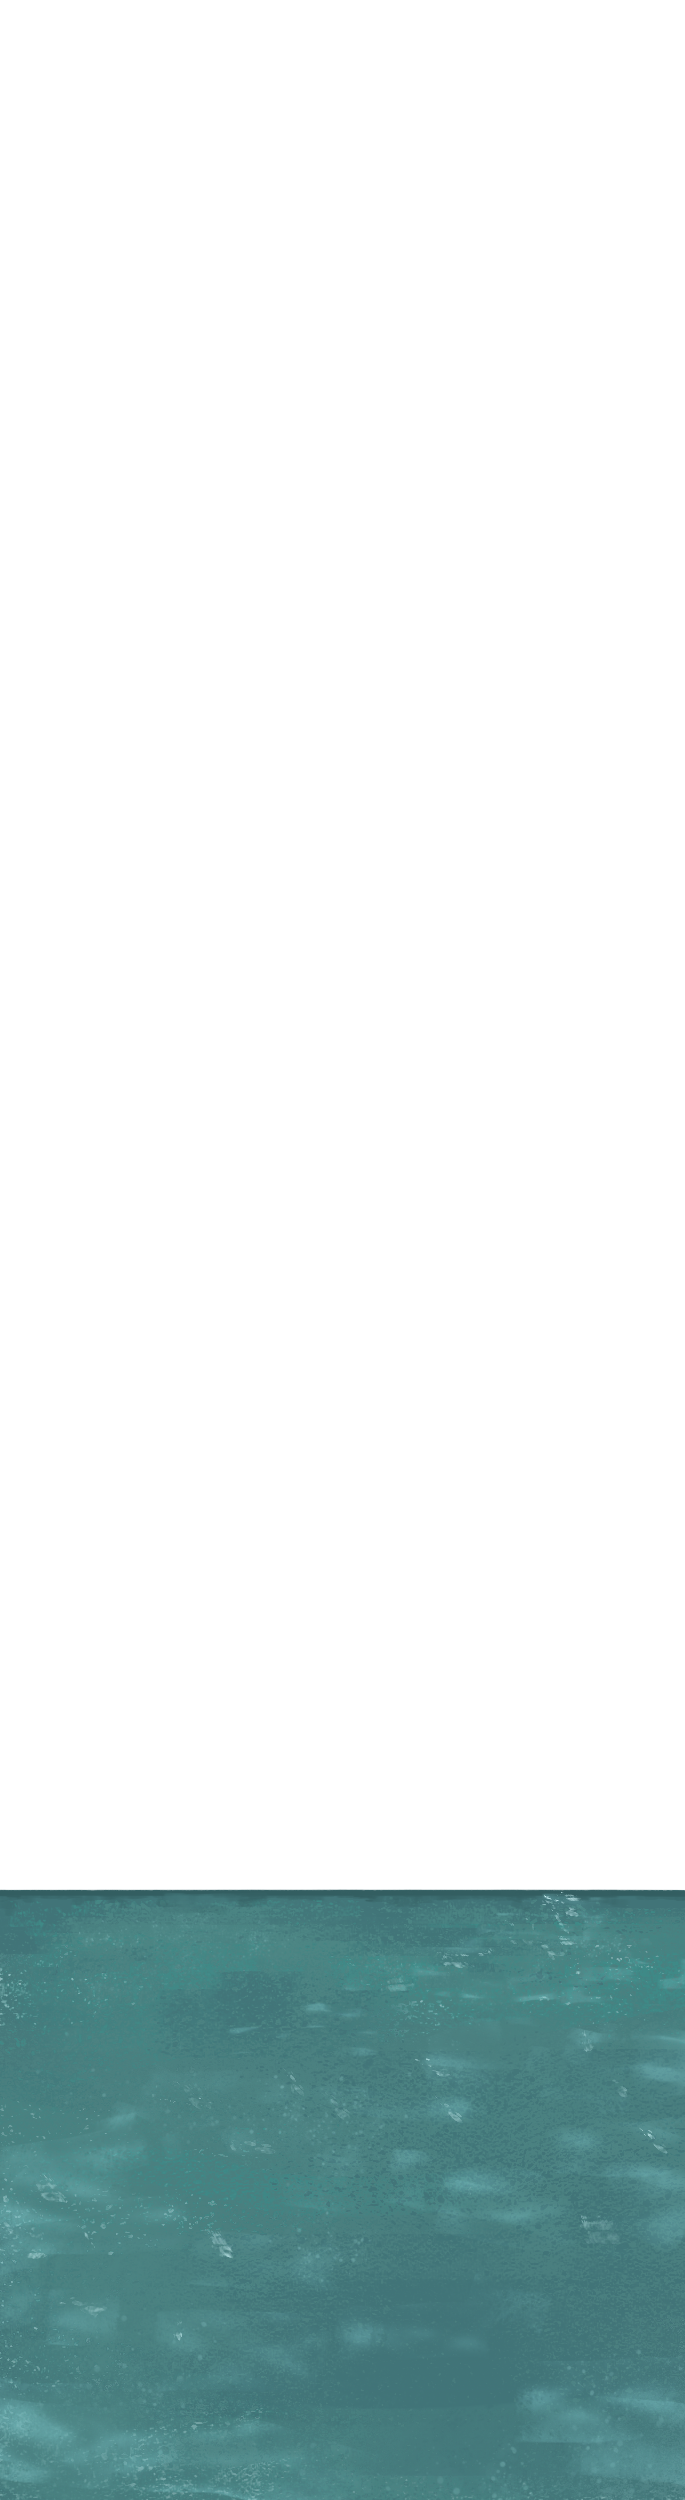
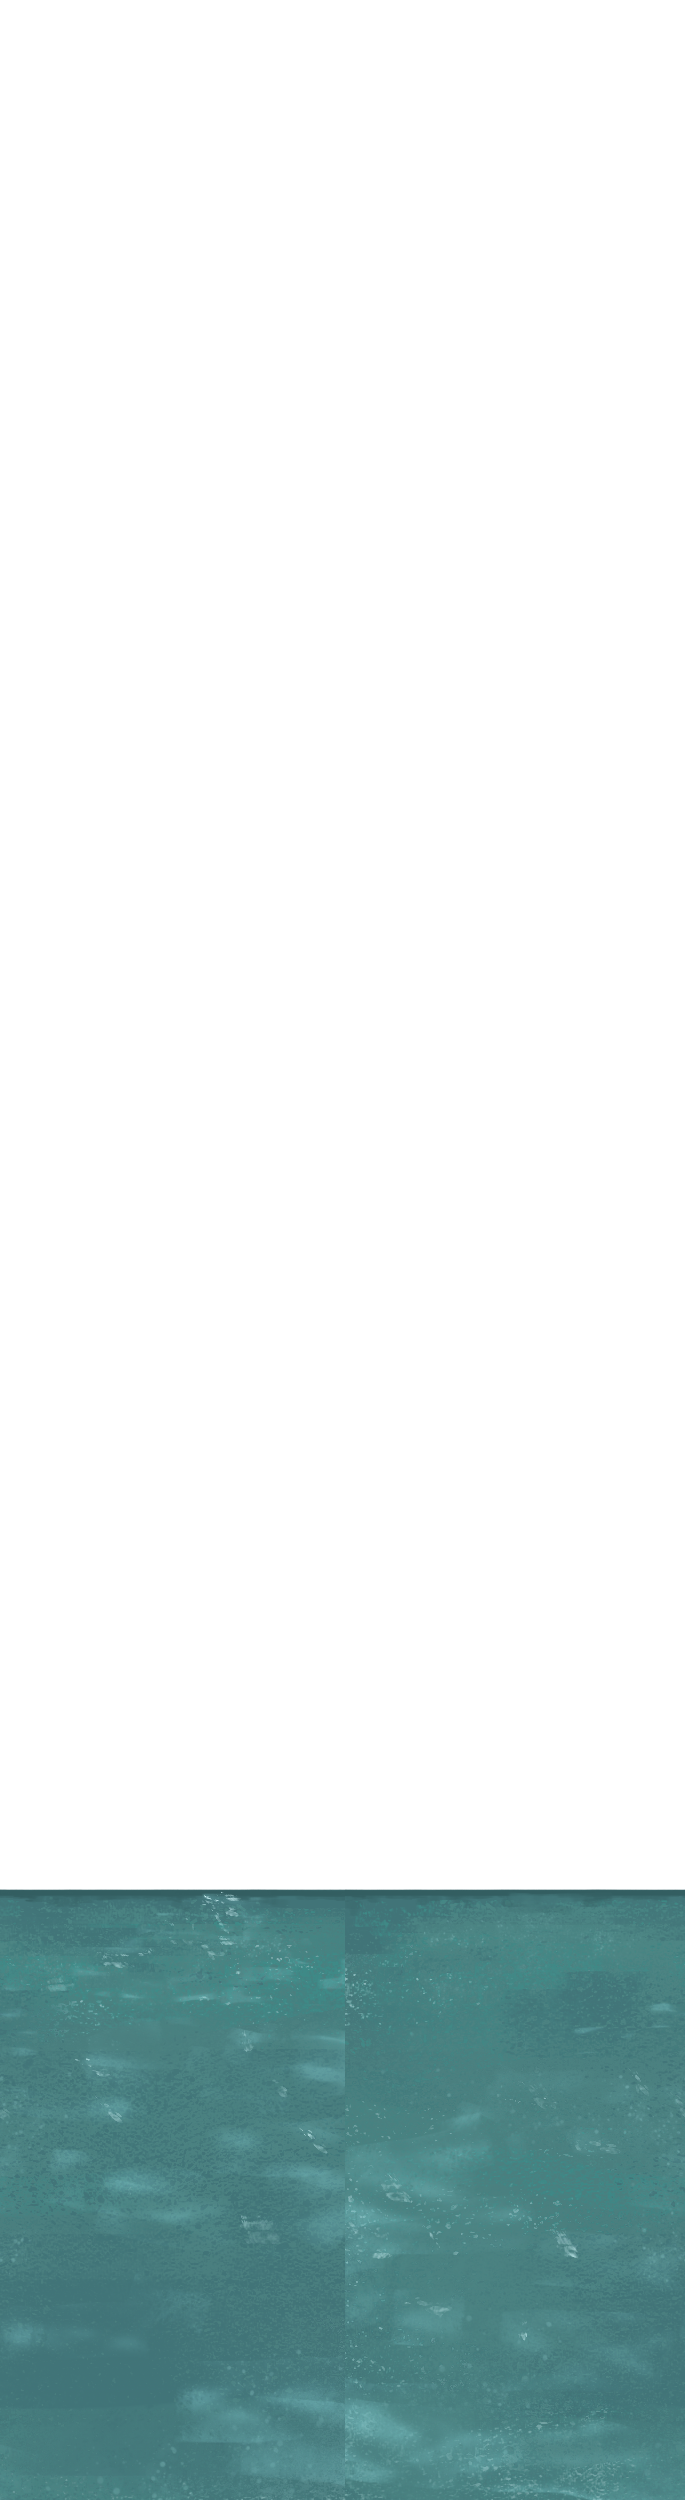
make the left part of the sky stop moving when after the first step

diff --git a/sass/sensing_evolution.scss b/sass/sensing_evolution.scss
@@ -461,27 +461,33 @@ div.item-title {
         }
       }
       
-      #sky {
+      .sky {
         clear: right;
         background-image: url(../img/objects/navigation/sky.png);
         background-size: 500px;
         background-position-y: 555px; //to get the sea level in center initially
-        background-position-x: -205px; //to get the sun centered left-right
         height: $sextantCapturedImageHeight;
         height: 100%;
-        width: 100%;
-        float: right;
+        width: 50%;
         position: relative;
-            #sun {
-                position: absolute;
-                left: 45%;
-            }
+        #sun {
+          position: absolute;
+          left: 0px;
+        }
         @media #{$tablet} {
           background-size: 1000px;
           background-position-y: 1112px;
-          background-position-x: -410px;
         }
+        &#sky-left {
+          float: left;
+          background-position-x: right;
         }
+        &#sky-right {
+          float: right;
+          background-position-x: left;
+        }
+      }
+      
     }
 
     #message {

diff --git a/app/views/interactive/SextantView.js b/app/views/interactive/SextantView.js
@@ -319,7 +319,12 @@ define([
                 
                 if(this.scrollSky) {
                     var skyOffsetY = skyAngle * SKY_BACKGROUND_SCROLL_RATE + this.sky_background_offset;
-                    $('#sky').css('background-position-y', skyOffsetY + 'px');
+                    // on android devices the left part of the captured image is transparent
+                    // so the left part of the sky should stop moving 
+                    if (this.step == 0){
+                      $('#sky-left').css('background-position-y', skyOffsetY + 'px');
+                    }
+                    $('#sky-right').css('background-position-y', skyOffsetY + 'px');
                     
                     
                     
